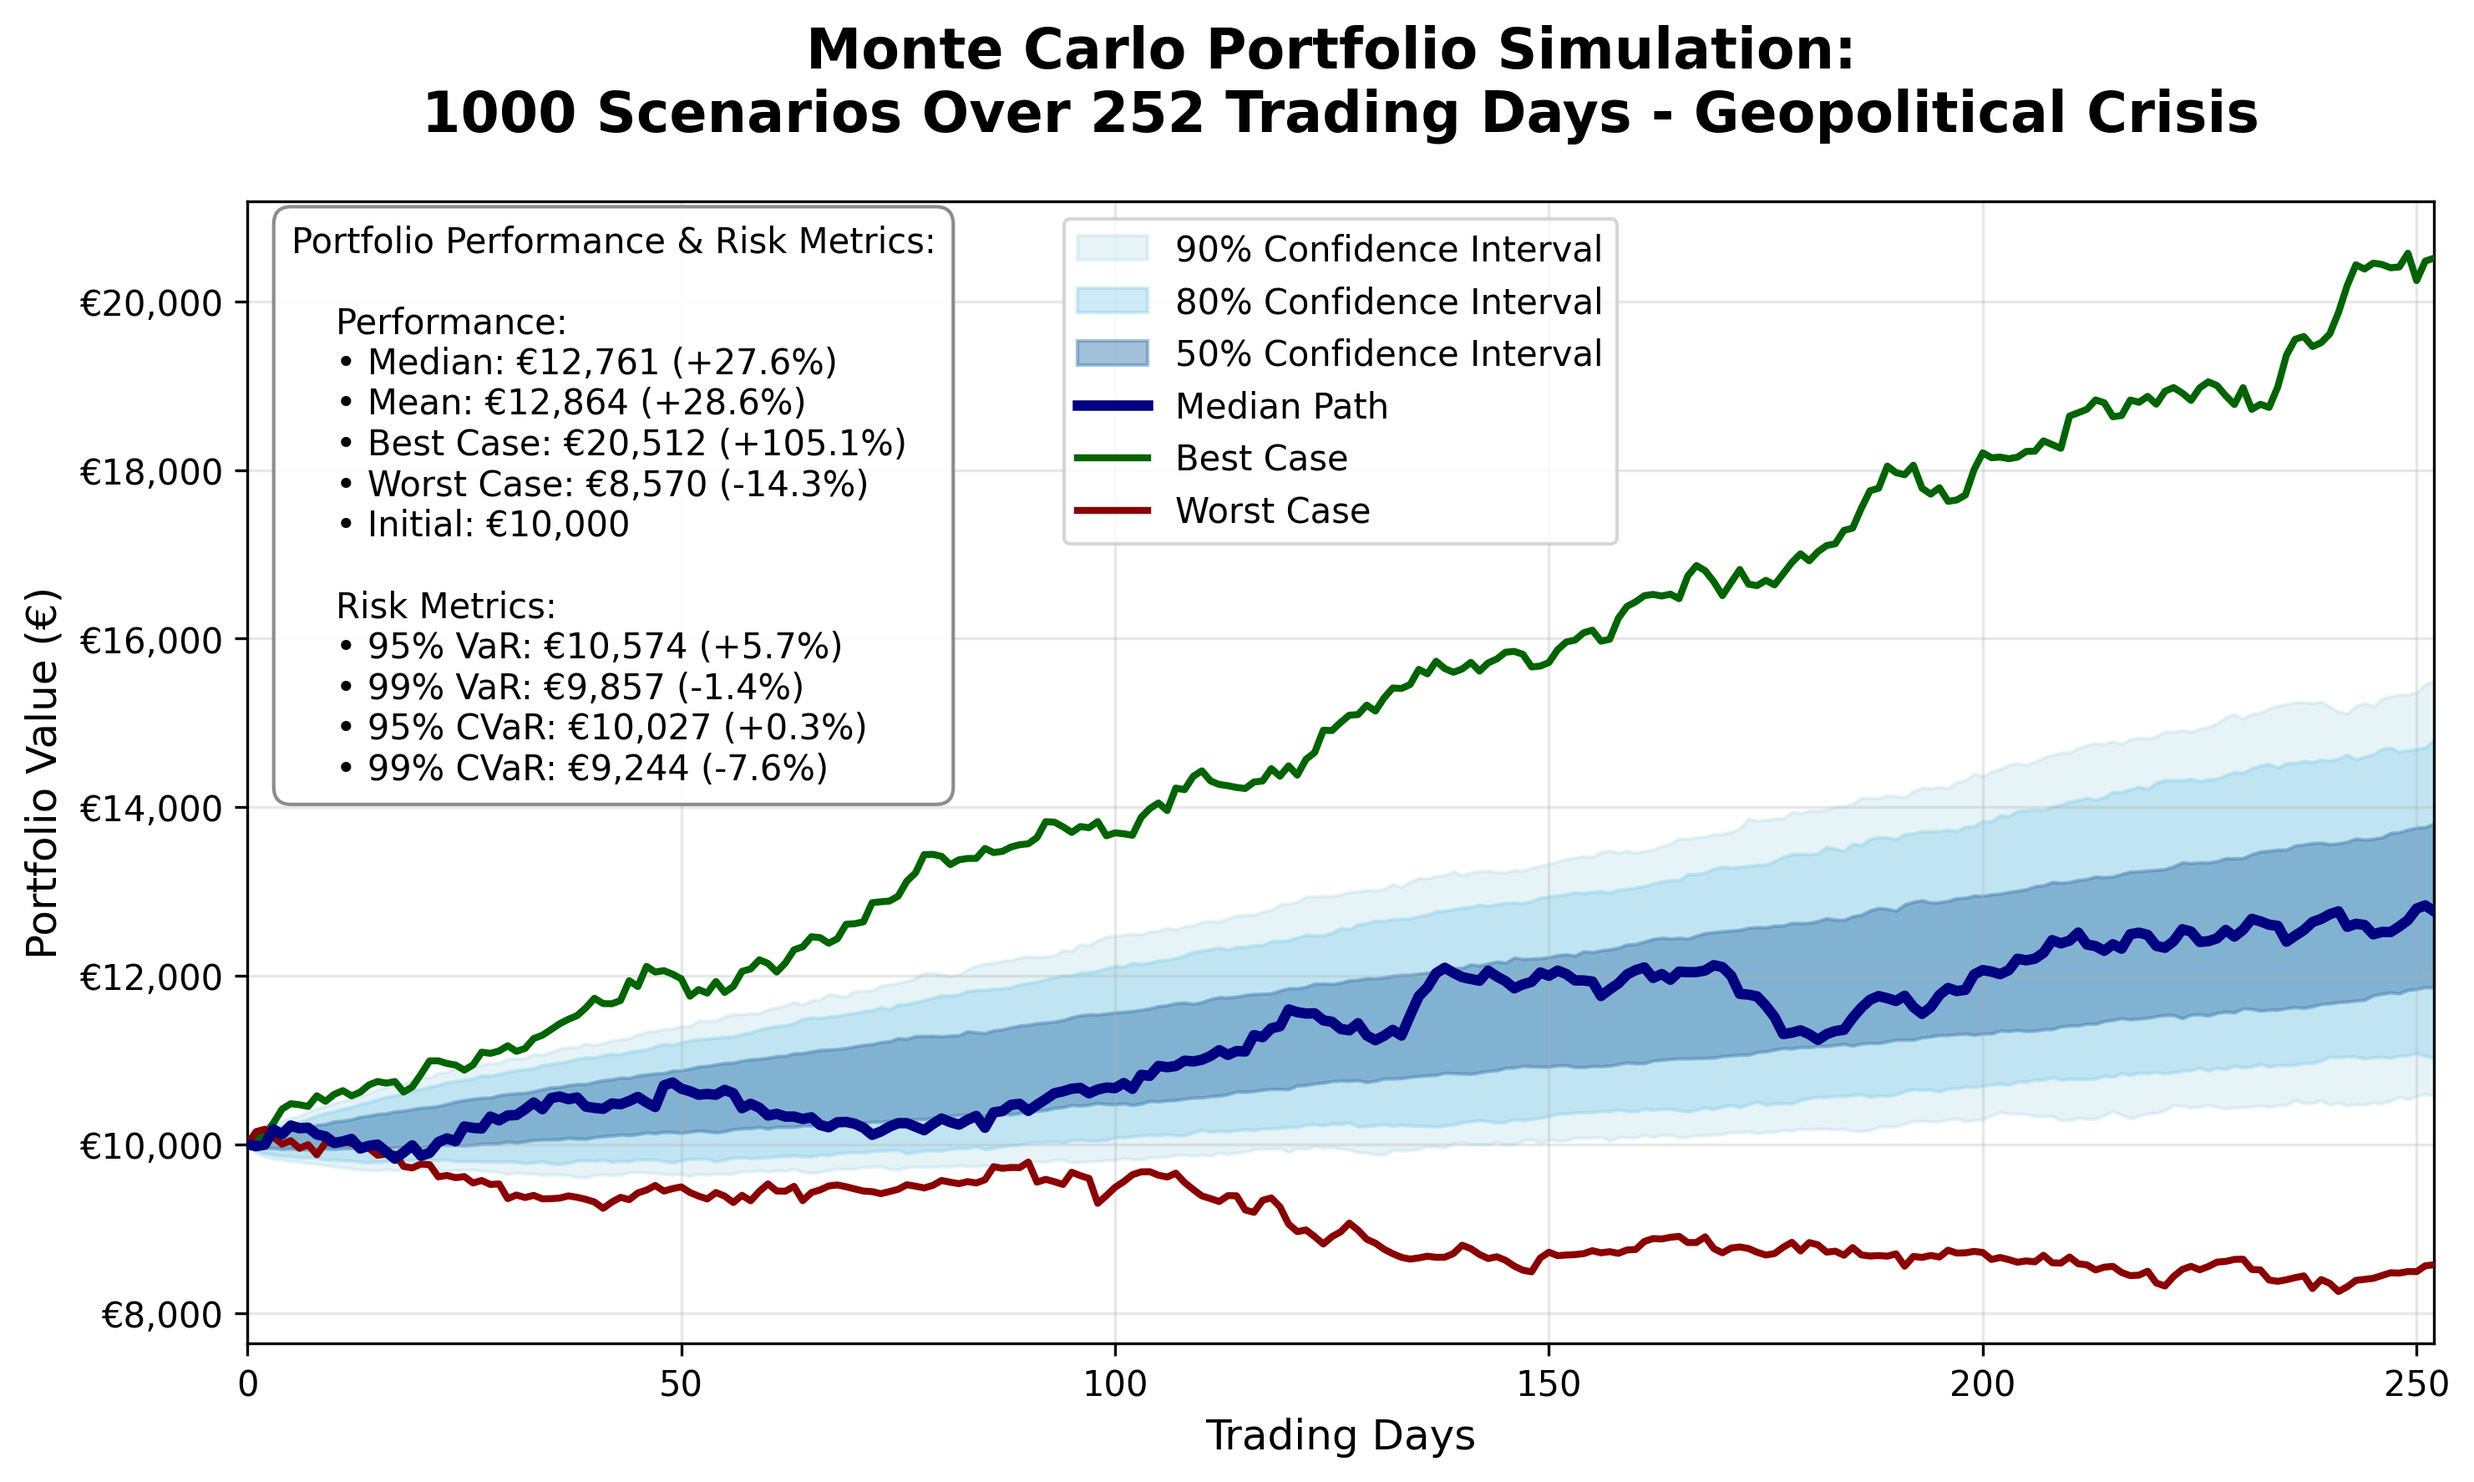
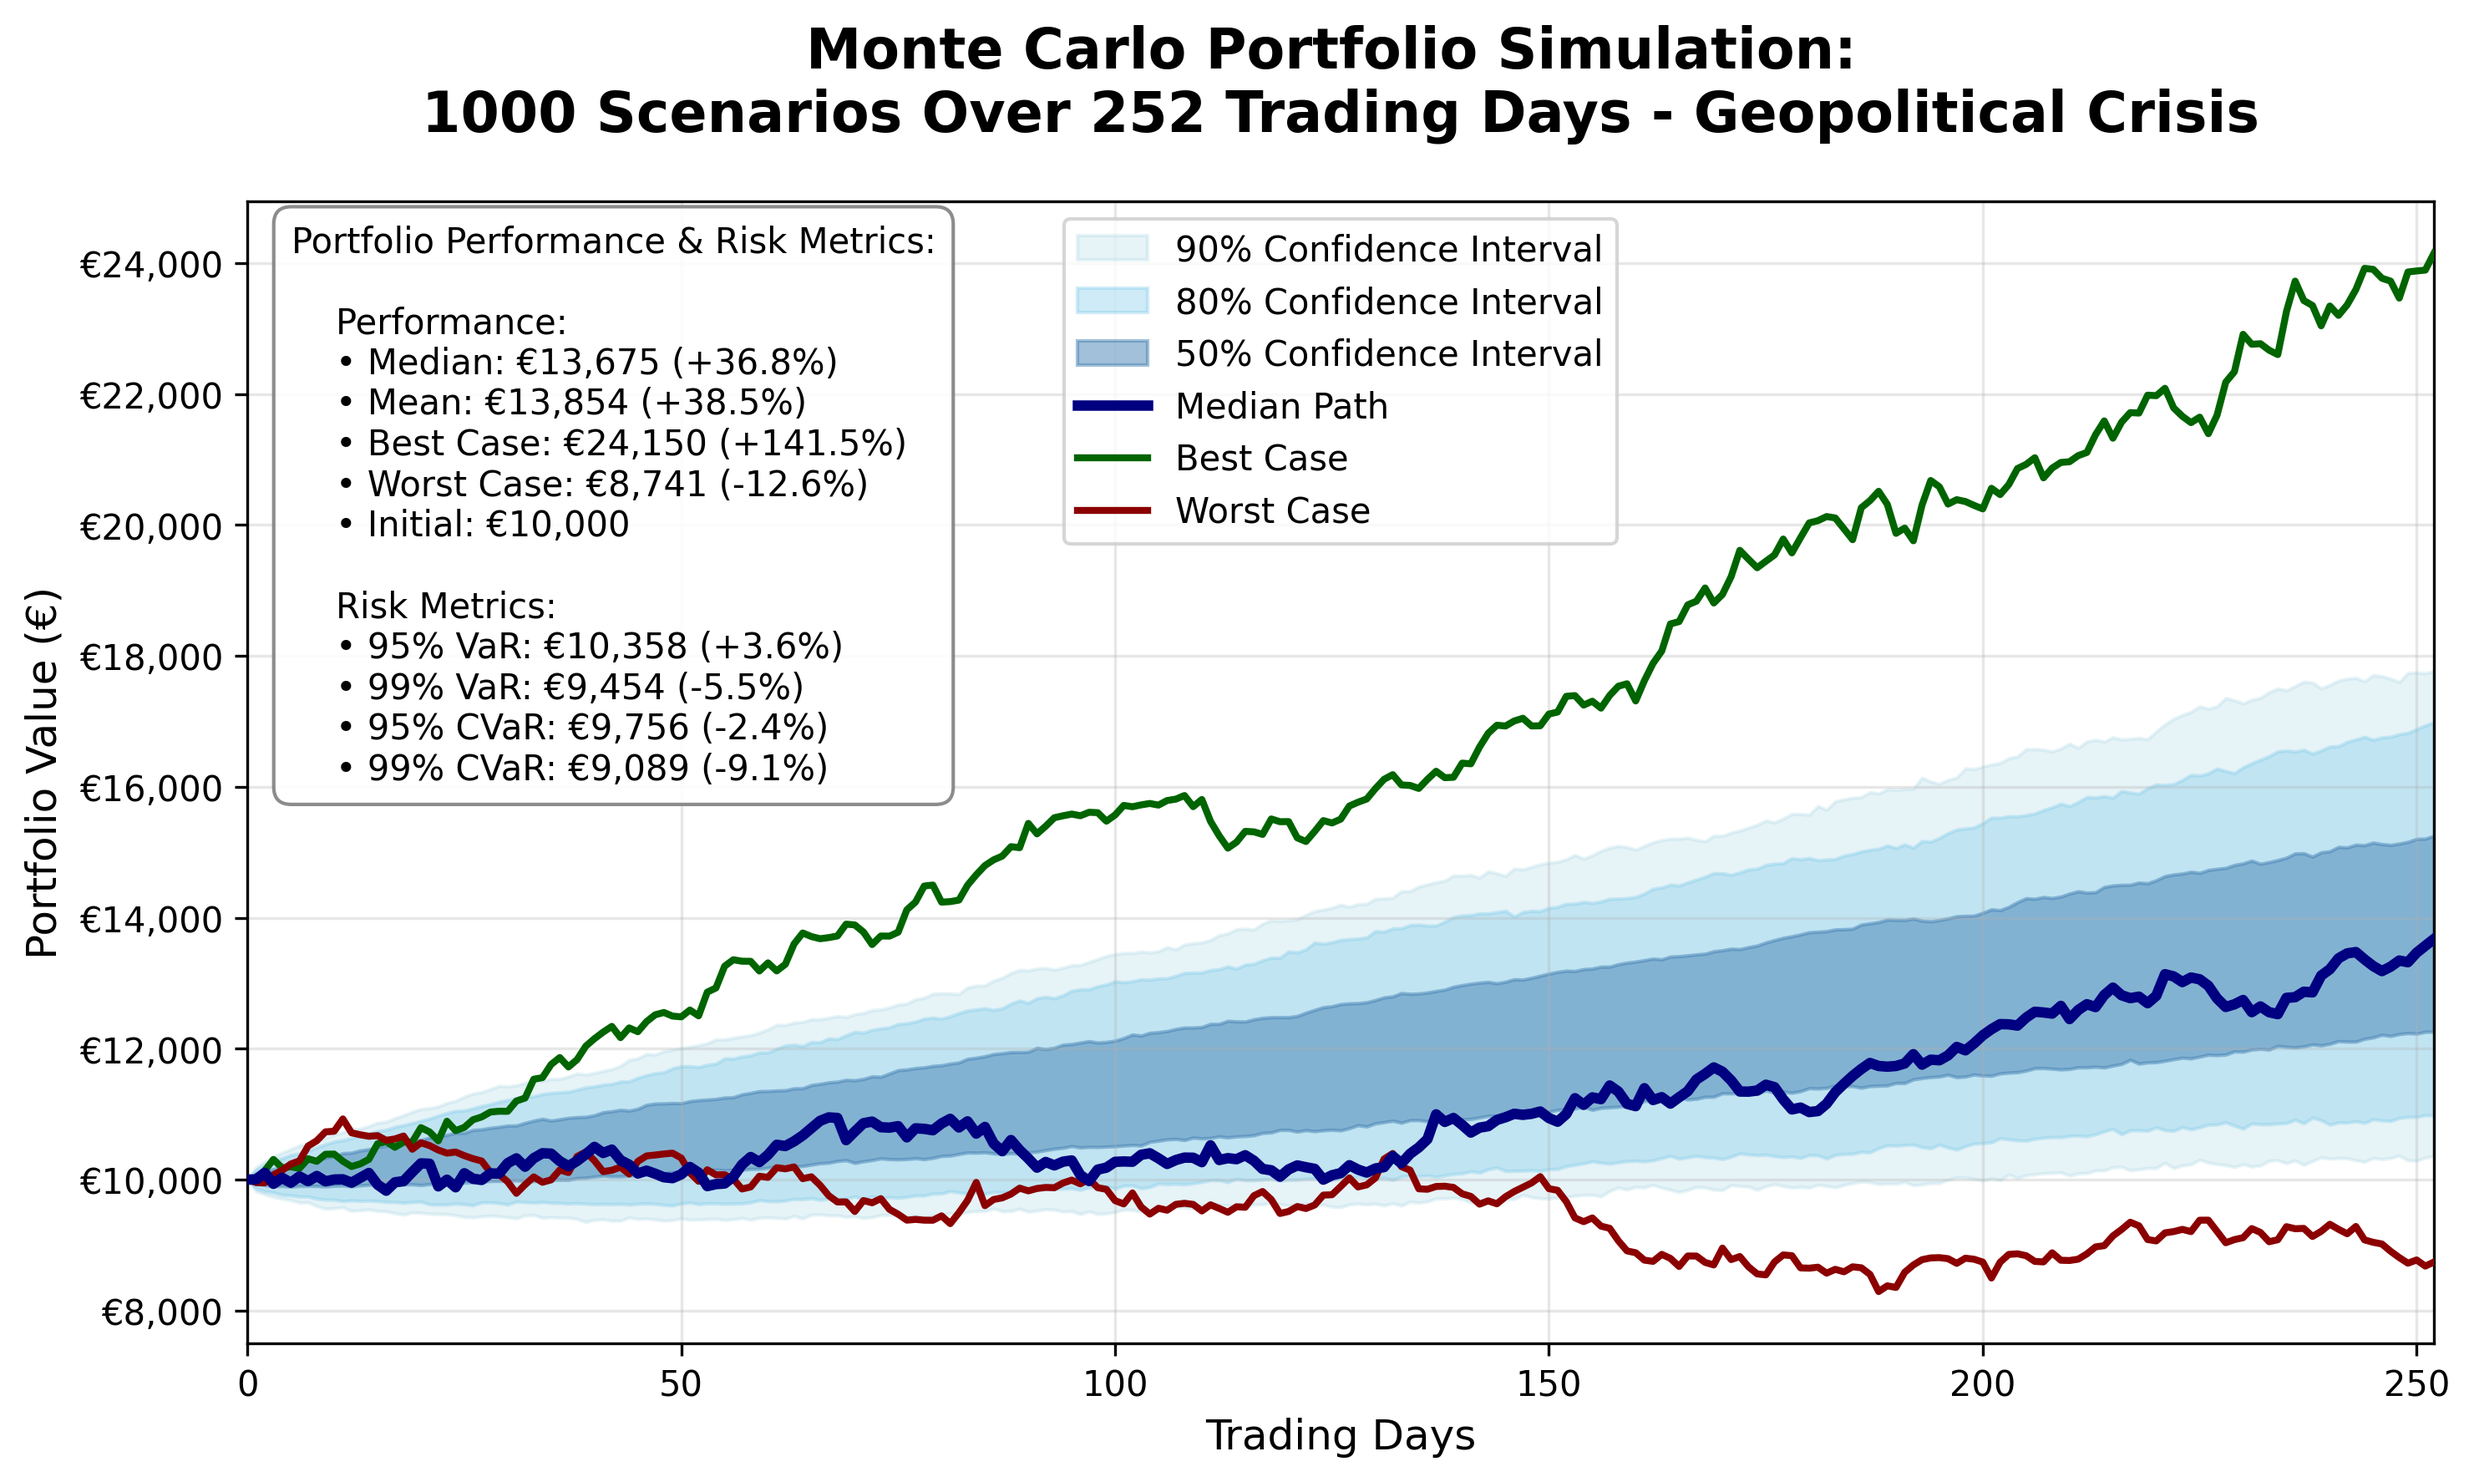
Add geopolitical crisis analysis features
- Introduced new charts for correlation matrix and eigenvalue analysis specific to geopolitical crisis scenarios, enhancing visualization capabilities.
- Updated `modify_portfolio_for_regime` function to adjust both mean returns and covariance matrix based on macroeconomic regime factors, improving risk assessment accuracy.
- Refined regime definitions in `portfolio.py` to include mean and volatility factors for better simulation fidelity.
- Added a constant for the geopolitical crisis regime name in `utils.py` for improved code clarity.

diff --git a/src/monte_carlo.py b/src/monte_carlo.py
@@ -166,29 +166,44 @@ def calculate_simulation_statistics(portfolio_paths):
     }
 
 
-def modify_returns_for_regime(mean_returns, tickers, asset_factors):
+def modify_portfolio_for_regime(mean_returns, cov_matrix, tickers, asset_factors):
     """
-    Modify mean returns based on macroeconomic regime factors.
+    Modify mean returns and covariance matrix based on macroeconomic regime factors.
 
     Args:
         mean_returns: Historical mean returns for each asset
+        cov_matrix: Historical covariance matrix of asset returns
         tickers: List of asset tickers
-        asset_factors: Dictionary of factors for each asset with "name" key
+        asset_factors: Dictionary of factors for each asset with 'mean_factor' and 'vol_factor' keys
 
     Returns:
-        tuple: (modified_returns, regime_name)
+        tuple:
+            - pd.Series: Modified mean returns for the regime
+            - pd.DataFrame: Modified covariance matrix for the regime
     """
-    if asset_factors is None:
-        return
+    modified_mean_returns = mean_returns.copy()
+    modified_cov_matrix = cov_matrix.copy()
 
-    modified_returns = mean_returns.copy()
+    for i, ticker_i in enumerate(tickers):
+        if ticker_i not in asset_factors:
+            return modified_mean_returns, modified_cov_matrix
+        # Modify mean returns
+        # Use iloc for position-based assignment to avoid FutureWarning
+        modified_mean_returns.iloc[i] *= asset_factors[ticker_i]["mean_factor"]
 
-    for i, ticker in enumerate(tickers):
-        if ticker in asset_factors:
-            # Use iloc for position-based assignment to avoid FutureWarning
-            modified_returns.iloc[i] *= asset_factors[ticker]
+        # --- Covariance Matrix Regime Adjustment ---
+        # - Diagonal elements (i == j): variance is scaled by (vol_factor)^2, so volatility is scaled by vol_factor.
+        # - Off-diagonal elements (i != j): covariance is scaled by both assets' vol_factors, reflecting how joint risk changes.
+        #   This preserves the correlation structure (correlations are unchanged), but increases or decreases the overall risk.
+        for j, ticker_j in enumerate(tickers):
 
-    return modified_returns
+            vi = asset_factors[ticker_i]["vol_factor"]
+            vj = asset_factors[ticker_j]["vol_factor"]
+
+            #   modified_cov[i, j] = original_cov[i, j] * vol_factor_i * vol_factor_j
+            modified_cov_matrix.iloc[i, j] *= vi * vj
+
+    return modified_mean_returns, modified_cov_matrix
 
 
 def get_cov_matrix_analysis(cov_matrix):

diff --git a/src/portfolio.py b/src/portfolio.py
@@ -22,10 +22,10 @@ FIAT_DEBASEMENT_REGIME = {
 }
 
 GEOPOLITICAL_CRISIS_REGIME = {
-    "BTC-EUR": 0.7,  # 30% lower - risk asset, underperforms
-    "4GLD.DE": 1.3,  # 30% higher - safe haven, outperforms
-    "5MVW.DE": 0.6,  # 40% lower - global stocks hurt
-    "SPYL.DE": 0.5,  # 50% lower - US stocks hit hard
-    "WMIN.DE": 0.8,  # 20% lower - commodity demand falls
-    "IS3N.DE": 0.4,  # 60% lower - emerging markets hit hardest
+    "BTC-EUR": {"mean_factor": 0.85, "vol_factor": 1.7},  # Down, choppy, possible hedge
+    "4GLD.DE": {"mean_factor": 1.10, "vol_factor": 1.2},  # Gold up, a bit choppier
+    "5MVW.DE": {"mean_factor": 1.15, "vol_factor": 1.25},  # Energy up, choppier
+    "SPYL.DE": {"mean_factor": 0.8, "vol_factor": 1.3},  # S&P down, choppier
+    "WMIN.DE": {"mean_factor": 1.05, "vol_factor": 1.4},  # Miners up, riskier
+    "IS3N.DE": {"mean_factor": 0.7, "vol_factor": 1.5},  # EM down, much choppier
 }

diff --git a/src/utils.py b/src/utils.py
@@ -2,6 +2,8 @@ import yfinance as yf
 import os
 import matplotlib.pyplot as plt
 
+GEOPOLITICAL_CRISIS_REGIME_NAME = "Geopolitical Crisis"
+
 
 def fetch_close_prices(tickers, start="2022-01-01", end="2024-12-31"):
     """
